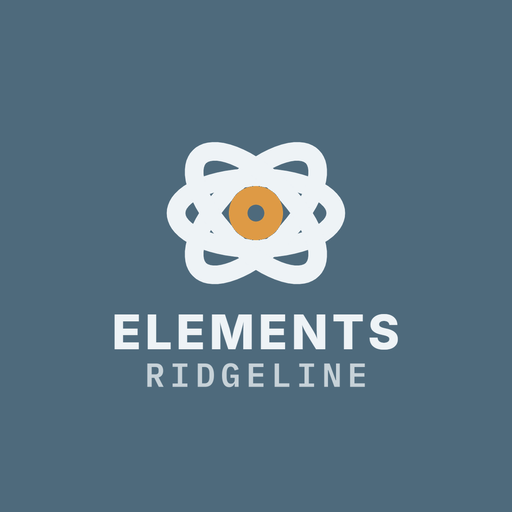
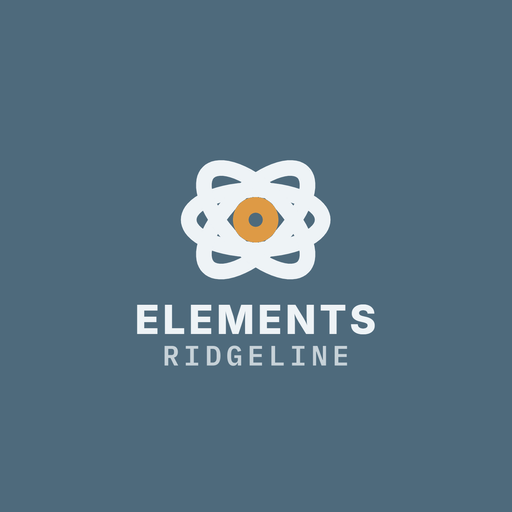
全家族版面修正：窄手機不左右滑／按鈕不擠扁、前面長說明改收合（紅線留外面）、桌面圖示縮進手機安全區
老闆手機回報（2026-10-19）：桌面圖示字被切、窄手機可左右滑、搜尋鈕擠扁、前面說明太長。版面以 360／375／390／412 四種寬度檢查（04_管理工具\版面檢查）；收合只換排版不刪字；maskable 圖示內容縮到半徑 ≤0.28。408 另加介紹文字重點標示（數字粗體、⚠ 句上警示色）。各支原有測試全過，細節見各自更新記錄。

Changed region(s): [[0.2188, 0.5938, 0.7812, 0.7812], [0.3125, 0.25, 0.6875, 0.5625]]

diff --git a/sw.js b/sw.js
@@ -1,4 +1,4 @@
-const C='elementquest-v21';
+const C='elementquest-v22';
 const A=['./','index.html','manifest.json','icon-192.png','icon-512.png','icon-maskable-512.png','icon.svg','favicon.svg','apple-touch-icon.png','vendor/round-ui/eq-round.woff2','vendor/fluent-3d/alembic.webp','vendor/fluent-3d/balance.webp','vendor/fluent-3d/castle.webp','vendor/fluent-3d/compass.webp','vendor/fluent-3d/dagger.webp','vendor/fluent-3d/detective.webp','vendor/fluent-3d/fire.webp','vendor/fluent-3d/fog.webp','vendor/fluent-3d/gem.webp','vendor/fluent-3d/hammerpick.webp','vendor/fluent-3d/locked.webp','vendor/fluent-3d/magnet.webp','vendor/fluent-3d/map.webp','vendor/fluent-3d/microscope.webp','vendor/fluent-3d/nutbolt.webp','vendor/fluent-3d/radioactive.webp','vendor/fluent-3d/rock.webp','vendor/fluent-3d/scroll.webp','vendor/fluent-3d/shield.webp','vendor/fluent-3d/snowflake.webp','vendor/fluent-3d/swords.webp','vendor/fluent-3d/testtube.webp','vendor/fluent-3d/trophy.webp'];
 self.addEventListener('install',e=>{e.waitUntil(caches.open(C).then(c=>c.addAll(A).catch(()=>{})))});
 self.addEventListener('activate',e=>{e.waitUntil(caches.keys().then(k=>Promise.all(k.filter(x=>x!==C).map(x=>caches.delete(x)))))});

diff --git a/更新記錄.md b/更新記錄.md
@@ -1,5 +1,11 @@
 # 元素勇者：週期表大冒險 更新記錄
 
+## 2026-10-19 · 手機桌面圖示的字被切：maskable 縮進 Android 安全區（sw elementquest-v21→elementquest-v22；未 commit／未部署）
+
+- 問題：老闆 Android 手機上 408 的安裝圖示 DOLOMITES 被遮罩切成「OLOMITE」。舊規則只保證墨跡在 W3C 安全圈（中心 80% 直徑、半徑 0.40）；但不少安裝路徑會把 maskable 直接當 Android 108dp 前景層，只露中間 72dp，啟動器再套圓形／圓角／水滴，實際放心可見只到半徑約 0.31（Android 安全區 66/108）。
+- 修法：只重產 manifest 指到的 maskable 圖（檔名不變、manifest 路徑不變），整張構圖以中心等比縮小到墨跡最大半徑 ≤ 0.28，背景色延伸滿版；其他尺寸與 any 圖不動。品牌正式檔、v5 母版與產生器（`mask_text.SAFE_R`）同步修正。
+- 本支：`icon-maskable-512.png` 半徑 0.332→0.279（以圖寬為 1；> 0.333 會被切）。
+
 ## 2026-10-19 · 版面美化「勇者冒險」：深紫夜空＋金、粉圓圓體、Fluent 3D 插圖、首屏主視覺（sw elementquest-v20→v21，**未部署**）
 
 - **為什麼**：UI/UX 評比（`04_管理工具\_docs\App_UIUX評比_2026-10-13\ui_feedback\703.json`）U1／U2／U4 幾乎全輸，理由三類：①頂部橘鈕下緊接六顆分頁鈕（多顆灰色停用）＋長段說明，主次被稀釋；②分頁鈕實心／停用／外框三種樣式並存、混用 emoji；③粉橘藍綠元素格疊在深底上偏雜、桌機週期表擠在左半。七系列由老闆選定樣稿 A「勇者冒險」，這支是原型（樣稿：`04_管理工具\_docs\App版面美化_2026-10-19\七系列樣稿\`）。
